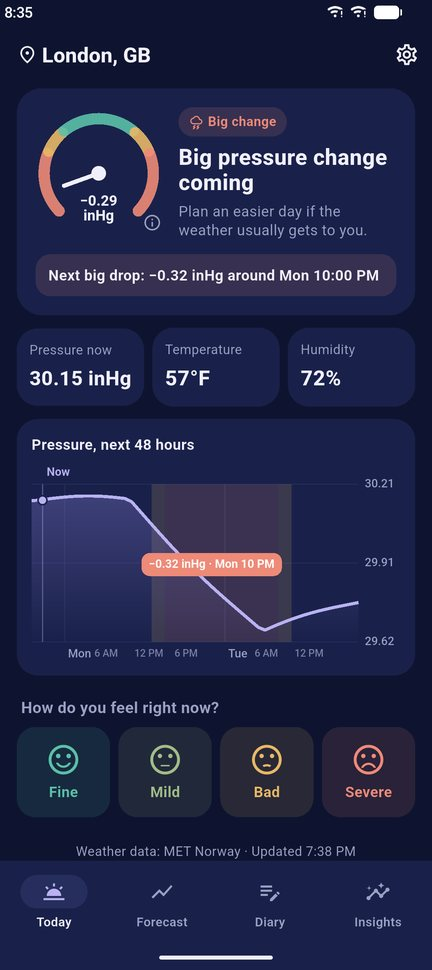
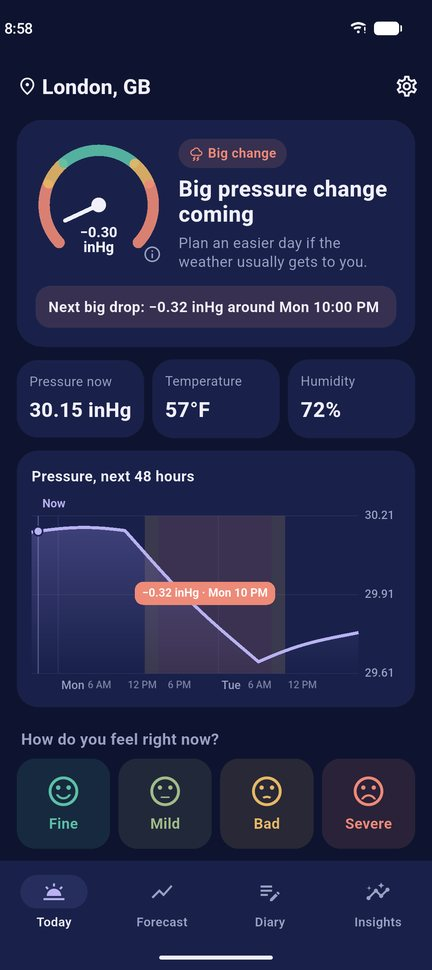
Add dark theme screenshots to the app pages

Changed region(s): [[0.0, 0.0, 0.963, 0.8969], [0.8426, 0.4948, 0.9028, 0.6186], [0.7523, 0.0, 0.7824, 0.0309]]

diff --git a/leafcure/index.html b/leafcure/index.html
@@ -18,7 +18,7 @@
   <link rel="preconnect" href="https://fonts.googleapis.com">
   <link rel="preconnect" href="https://fonts.gstatic.com" crossorigin>
   <link href="https://fonts.googleapis.com/css2?family=Fredoka:wght@500;600;700&family=Nunito:wght@500;700;800&display=swap" rel="stylesheet">
-  <link rel="stylesheet" href="../assets/style.css?v=ecd02941">
+  <link rel="stylesheet" href="../assets/style.css?v=18ef257a">
   <link rel="apple-touch-icon" href="../assets/apple-touch-icon.png">
   <style>:root { --c1: #1F5C45; --c2: #A9D3B6; --bg: #F2F8F4; }</style>
   <script type="application/ld+json">{"@context": "https://schema.org", "@type": "MobileApplication", "name": "Leafcure: Plant Disease Doctor", "description": "Leafcure is an AI plant doctor. Snap a sick leaf to identify the plant, find the disease or pest, and get step-by-step treatment.", "url": "https://alauddinahmed9282.github.io/leafcure/", "image": "https://alauddinahmed9282.github.io/leafcure/icon.png", "applicationCategory": "LifestyleApplication", "operatingSystem": "Android, iOS", "publisher": {"@type": "Organization", "name": "Alauddin Studio", "url": "https://alauddinahmed9282.github.io/"}}</script>
@@ -44,9 +44,9 @@
     </section>
     <section class="gallery tall reveal" aria-label="Screenshots">
       <button class="arrow prev" type="button" aria-label="Previous screenshots">‹</button>
-      <div class="shots" style="--n:6"><img src="shots/1.jpg" data-big="shots/1@2.jpg" alt="Leafcure screenshot 1" loading="lazy" width="432" height="970"><img src="shots/2.jpg" data-big="shots/2@2.jpg" alt="Leafcure screenshot 2" loading="lazy" width="432" height="970"><img src="shots/3.jpg" data-big="shots/3@2.jpg" alt="Leafcure screenshot 3" loading="lazy" width="432" height="970"><img src="shots/4.jpg" data-big="shots/4@2.jpg" alt="Leafcure screenshot 4" loading="lazy" width="432" height="970"><img src="shots/5.jpg" data-big="shots/5@2.jpg" alt="Leafcure screenshot 5" loading="lazy" width="432" height="970"><img src="shots/6.jpg" data-big="shots/6@2.jpg" alt="Leafcure screenshot 6" loading="lazy" width="432" height="970"></div>
+      <div class="shots" style="--n:6"><img src="shots/1.jpg" data-big="shots/1@2.jpg" alt="Leafcure screenshot 1" loading="lazy" width="432" height="970"><img src="shots/2.jpg" data-big="shots/2@2.jpg" alt="Leafcure screenshot 2" loading="lazy" width="432" height="970"><img src="shots/3.jpg" data-big="shots/3@2.jpg" alt="Leafcure screenshot 3" loading="lazy" width="432" height="970"><img src="shots/4.jpg" data-big="shots/4@2.jpg" alt="Leafcure screenshot 4" loading="lazy" width="432" height="970"><img src="shots/5.jpg" data-big="shots/5@2.jpg" alt="Leafcure screenshot 5" loading="lazy" width="432" height="970"><img src="shots/6.jpg" data-big="shots/6@2.jpg" alt="Leafcure screenshot 6" loading="lazy" width="432" height="970"><img src="shots/7.jpg" data-big="shots/7@2.jpg" alt="Leafcure screenshot 7" loading="lazy" width="432" height="970"><img src="shots/8.jpg" data-big="shots/8@2.jpg" alt="Leafcure screenshot 8" loading="lazy" width="432" height="970"><img src="shots/9.jpg" data-big="shots/9@2.jpg" alt="Leafcure screenshot 9" loading="lazy" width="432" height="970"><img src="shots/10.jpg" data-big="shots/10@2.jpg" alt="Leafcure screenshot 10" loading="lazy" width="432" height="970"><img src="shots/11.jpg" data-big="shots/11@2.jpg" alt="Leafcure screenshot 11" loading="lazy" width="432" height="970"><img src="shots/12.jpg" data-big="shots/12@2.jpg" alt="Leafcure screenshot 12" loading="lazy" width="432" height="970"></div>
       <button class="arrow next" type="button" aria-label="Next screenshots">›</button>
-      <p class="sample">Screens show sample data.</p>
+      <p class="sample">Light and dark themes. Screens show sample data.</p>
     </section>
 
     <section class="about" id="features">
@@ -86,6 +86,6 @@
       <p class="copy">© 2026 <a href="https://alauddinahmed9282.github.io/">Alauddin Studio</a> · <a href="mailto:alauddinahmed7888@gmail.com">alauddinahmed7888@gmail.com</a></p>
     </div>
   </footer>
-  <script src="../assets/app.js?v=ecd02941"></script>
+  <script src="../assets/app.js?v=18ef257a"></script>
 </body>
 </html>

diff --git a/paincast/index.html b/paincast/index.html
@@ -18,7 +18,7 @@
   <link rel="preconnect" href="https://fonts.googleapis.com">
   <link rel="preconnect" href="https://fonts.gstatic.com" crossorigin>
   <link href="https://fonts.googleapis.com/css2?family=Fredoka:wght@500;600;700&family=Nunito:wght@500;700;800&display=swap" rel="stylesheet">
-  <link rel="stylesheet" href="../assets/style.css?v=ecd02941">
+  <link rel="stylesheet" href="../assets/style.css?v=18ef257a">
   <link rel="apple-touch-icon" href="../assets/apple-touch-icon.png">
   <style>:root { --c1: #4B4A9E; --c2: #B9B3F0; --bg: #F3F3FC; }</style>
   <script type="application/ld+json">{"@context": "https://schema.org", "@type": "MobileApplication", "name": "Paincast: Barometric Pressure Alerts & Pain Diary", "description": "Paincast warns you 24–48 hours before big air pressure changes and keeps a simple pain diary, so you can plan around the weather.", "url": "https://alauddinahmed9282.github.io/paincast/", "image": "https://alauddinahmed9282.github.io/paincast/icon.png", "applicationCategory": "WeatherApplication", "operatingSystem": "Android, iOS", "publisher": {"@type": "Organization", "name": "Alauddin Studio", "url": "https://alauddinahmed9282.github.io/"}}</script>
@@ -44,9 +44,9 @@
     </section>
     <section class="gallery tall reveal" aria-label="Screenshots">
       <button class="arrow prev" type="button" aria-label="Previous screenshots">‹</button>
-      <div class="shots" style="--n:6"><img src="shots/1.jpg" data-big="shots/1@2.jpg" alt="Paincast screenshot 1" loading="lazy" width="432" height="970"><img src="shots/2.jpg" data-big="shots/2@2.jpg" alt="Paincast screenshot 2" loading="lazy" width="432" height="970"><img src="shots/3.jpg" data-big="shots/3@2.jpg" alt="Paincast screenshot 3" loading="lazy" width="432" height="970"><img src="shots/4.jpg" data-big="shots/4@2.jpg" alt="Paincast screenshot 4" loading="lazy" width="432" height="970"><img src="shots/5.jpg" data-big="shots/5@2.jpg" alt="Paincast screenshot 5" loading="lazy" width="432" height="970"><img src="shots/6.jpg" data-big="shots/6@2.jpg" alt="Paincast screenshot 6" loading="lazy" width="432" height="970"></div>
+      <div class="shots" style="--n:5"><img src="shots/1.jpg" data-big="shots/1@2.jpg" alt="Paincast screenshot 1" loading="lazy" width="432" height="970"><img src="shots/2.jpg" data-big="shots/2@2.jpg" alt="Paincast screenshot 2" loading="lazy" width="432" height="970"><img src="shots/3.jpg" data-big="shots/3@2.jpg" alt="Paincast screenshot 3" loading="lazy" width="432" height="970"><img src="shots/4.jpg" data-big="shots/4@2.jpg" alt="Paincast screenshot 4" loading="lazy" width="432" height="970"><img src="shots/5.jpg" data-big="shots/5@2.jpg" alt="Paincast screenshot 5" loading="lazy" width="432" height="970"><img src="shots/6.jpg" data-big="shots/6@2.jpg" alt="Paincast screenshot 6" loading="lazy" width="432" height="970"><img src="shots/7.jpg" data-big="shots/7@2.jpg" alt="Paincast screenshot 7" loading="lazy" width="432" height="970"><img src="shots/8.jpg" data-big="shots/8@2.jpg" alt="Paincast screenshot 8" loading="lazy" width="432" height="970"><img src="shots/9.jpg" data-big="shots/9@2.jpg" alt="Paincast screenshot 9" loading="lazy" width="432" height="970"><img src="shots/10.jpg" data-big="shots/10@2.jpg" alt="Paincast screenshot 10" loading="lazy" width="432" height="970"></div>
       <button class="arrow next" type="button" aria-label="Next screenshots">›</button>
-      <p class="sample">Screens show sample data.</p>
+      <p class="sample">Light and dark themes. Screens show sample data.</p>
     </section>
 
     <section class="about" id="features">
@@ -86,6 +86,6 @@
       <p class="copy">© 2026 <a href="https://alauddinahmed9282.github.io/">Alauddin Studio</a> · <a href="mailto:alauddinahmed7888@gmail.com">alauddinahmed7888@gmail.com</a></p>
     </div>
   </footer>
-  <script src="../assets/app.js?v=ecd02941"></script>
+  <script src="../assets/app.js?v=18ef257a"></script>
 </body>
 </html>

diff --git a/index.html b/index.html
@@ -18,7 +18,7 @@
   <link rel="preconnect" href="https://fonts.googleapis.com">
   <link rel="preconnect" href="https://fonts.gstatic.com" crossorigin>
   <link href="https://fonts.googleapis.com/css2?family=Fredoka:wght@500;600;700&family=Nunito:wght@500;700;800&display=swap" rel="stylesheet">
-  <link rel="stylesheet" href="assets/style.css?v=ecd02941">
+  <link rel="stylesheet" href="assets/style.css?v=18ef257a">
   <link rel="apple-touch-icon" href="assets/apple-touch-icon.png">
   <script type="application/ld+json">{"@context": "https://schema.org", "@type": "Organization", "name": "Alauddin Studio", "url": "https://alauddinahmed9282.github.io/", "logo": "https://alauddinahmed9282.github.io/assets/logo-512.png", "email": "alauddinahmed7888@gmail.com", "sameAs": ["https://cozyidle.github.io/"]}</script>
 </head>
@@ -145,6 +145,6 @@
       <p class="copy">© 2026 <a href="https://alauddinahmed9282.github.io/">Alauddin Studio</a> · <a href="mailto:alauddinahmed7888@gmail.com">alauddinahmed7888@gmail.com</a></p>
     </div>
   </footer>
-  <script src="assets/app.js?v=ecd02941"></script>
+  <script src="assets/app.js?v=18ef257a"></script>
 </body>
 </html>

diff --git a/assets/style.css b/assets/style.css
@@ -266,6 +266,7 @@ section { scroll-margin-top: 16px; }
 .app-page .particles { display: none; }
 .phone.tall { aspect-ratio: 1080 / 2424; width: min(58vw, 270px); }
 .gallery.tall .shots img { aspect-ratio: 1080 / 2424; }
+@media (min-width: 900px) { .gallery.tall .shots { row-gap: 18px; } }
 .sample { margin-top: 2px; text-align: center; font-size: 13px; color: var(--ink-soft); }
 .step-no { font-family: "Fredoka", sans-serif; font-weight: 700; color: var(--c1); }
 .faqs { display: grid; gap: 10px; max-width: 760px; margin: 0 auto; }
